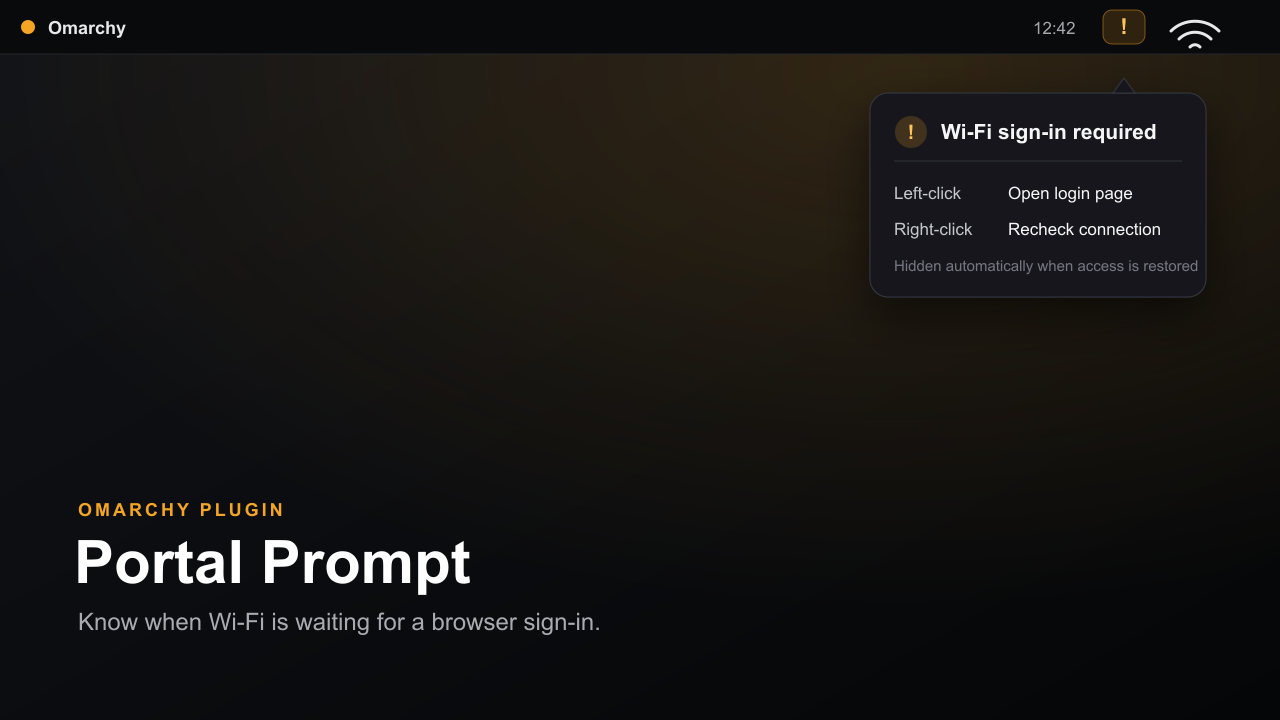
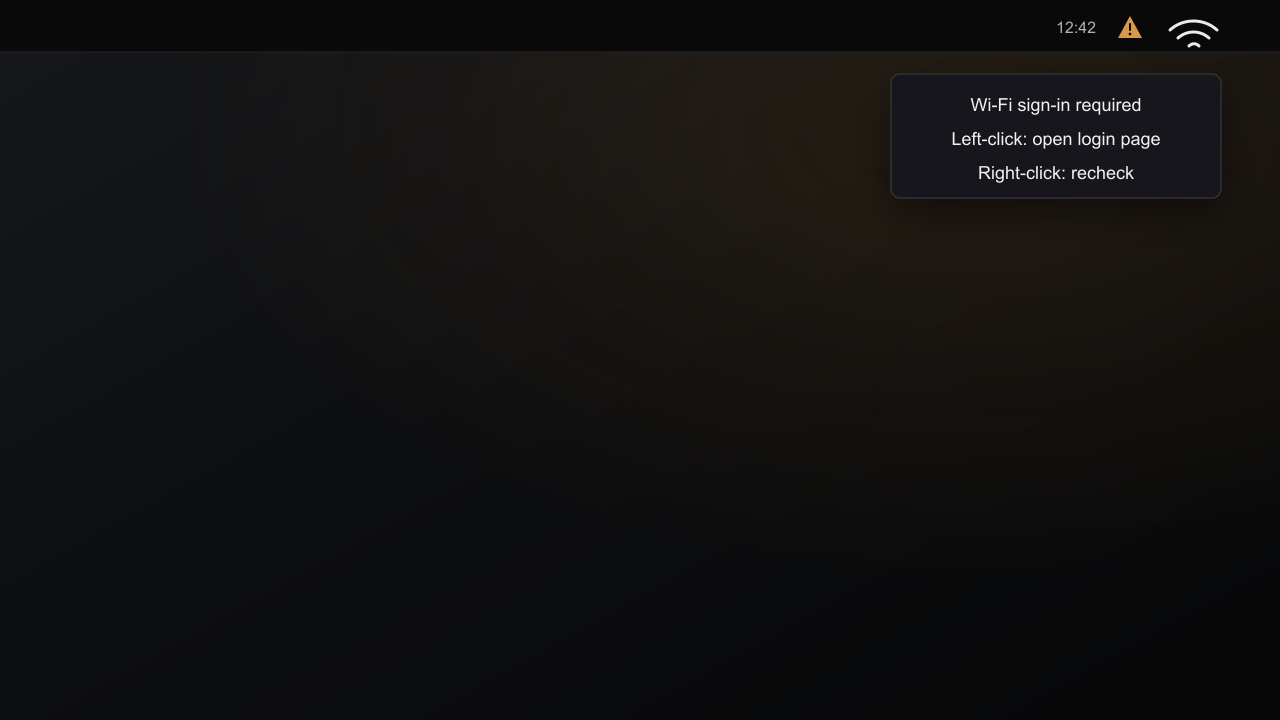
Polish preview and harden runtime

diff --git a/BarWidget.qml b/BarWidget.qml
@@ -1,5 +1,4 @@
 import QtQuick
-import Quickshell
 import Quickshell.Io
 import qs.Commons
 import qs.Ui
@@ -9,16 +8,11 @@ BarWidget {
   moduleName: "io.github.blackscaletech.portal-prompt"
 
   property string connectivity: "unknown"
-  property bool initialCheckPending: true
-
-  readonly property bool needsAttention:
-    connectivity === "portal" || connectivity === "limited"
+  readonly property bool needsAttention: connectivity === "portal" || connectivity === "limited"
 
   readonly property string loginUrl: {
     var candidate = String(setting("loginUrl", "http://example.com/")).trim()
-    return candidate.indexOf("http://") === 0
-      ? candidate
-      : "http://example.com/"
+    return /^http:\/\/\S{1,2048}$/i.test(candidate) ? candidate : "http://example.com/"
   }
 
   readonly property string statusText: connectivity === "portal"
@@ -27,8 +21,7 @@ BarWidget {
 
   function applyStatus(output) {
     var value = String(output || "").trim().toLowerCase()
-    var known = ["none", "portal", "limited", "full", "unknown"]
-    connectivity = known.indexOf(value) >= 0 ? value : "unknown"
+    connectivity = /^(none|portal|limited|full|unknown)$/.test(value) ? value : "unknown"
   }
 
   function refresh(forceCheck) {
@@ -40,15 +33,12 @@ BarWidget {
     connectivityProbe.running = true
   }
 
-  function openLoginPage() {
-    if (openPage.running) return
-    openPage.command = ["xdg-open", loginUrl]
-    openPage.running = true
-  }
+  function openLoginPage() { Util.execArgv(["xdg-open", loginUrl]) }
 
   visible: needsAttention
   implicitWidth: button.implicitWidth
   implicitHeight: button.implicitHeight
+  Component.onCompleted: refresh(true)
 
   Process {
     id: connectivityProbe
@@ -64,26 +54,11 @@ BarWidget {
     }
   }
 
-  Process {
-    id: openPage
-  }
-
   Timer {
     interval: 30000
     running: true
     repeat: true
-    triggeredOnStart: true
-    onTriggered: {
-      root.refresh(root.initialCheckPending)
-      root.initialCheckPending = false
-    }
-  }
-
-  IpcHandler {
-    target: "io.github.blackscaletech.portal-prompt"
-
-    function open(): void { root.openLoginPage() }
-    function refresh(): void { root.refresh(true) }
+    onTriggered: root.refresh(false)
   }
 
   BarIconButton {
@@ -93,6 +68,7 @@ BarWidget {
     text: "\uf071"
     slotSize: Style.bar.statusSlot
     fontSize: Style.font.caption
+    active: true
     tooltipText: root.statusText + "\nLeft-click: open login page\nRight-click: recheck"
 
     onPressed: function(buttonCode) {

diff --git a/README.md b/README.md
@@ -1,40 +1,21 @@
 # Portal Prompt
 
-Portal Prompt is a tiny [Omarchy](https://omarchy.org/) Quattro bar widget for the annoying state where Wi-Fi is connected but the internet is blocked behind a hotel, airport, cafe, or conference login page.
+An [Omarchy](https://omarchy.org/) Quattro bar widget that shows when NetworkManager reports a captive portal or limited connectivity, then opens a browser sign-in page.
 
 ![Portal Prompt showing a captive-portal warning in the Omarchy bar](preview.png)
 
-It stays hidden during normal connectivity. When NetworkManager reports `portal` or `limited`, a warning icon appears:
+Portal Prompt stays hidden while connectivity is normal. When NetworkManager reports `portal` or `limited`:
 
-- Left-click opens a plain-HTTP page so the network can redirect the browser to its sign-in page.
-- Right-click asks NetworkManager to check connectivity again.
-- The status is also refreshed locally every 30 seconds.
-
-Portal Prompt does not bypass a captive portal or handle its credentials. It only detects the state and helps open the portal in your browser.
+- **Left-click** opens the sign-in page.
+- **Right-click** rechecks connectivity.
 
 ## Install
-
-From GitHub after the repository is published:
 
 ```bash
 omarchy plugin add https://github.com/blackscaletech/portal-prompt.git --enable
 ```
 
-For local development, clone or copy this repository to:
-
-```text
-~/.config/omarchy/plugins/io.github.blackscaletech.portal-prompt
-```
-
-Then validate, discover, and enable it:
-
-```bash
-omarchy plugin validate ~/.config/omarchy/plugins/io.github.blackscaletech.portal-prompt
-omarchy-shell shell rescanPlugins
-omarchy plugin enable io.github.blackscaletech.portal-prompt
-```
-
-The widget defaults to the right side of the bar. Its `loginUrl` setting defaults to `http://example.com/`; a plain-HTTP URL is intentional because captive portals cannot transparently redirect a valid HTTPS connection. Non-HTTP values are ignored and fall back to the default.
+The widget is added to the right side of the bar. Its optional `loginUrl` setting defaults to `http://example.com/`; plain HTTP allows the network to redirect the browser to its portal.
 
 ## Remove
 
@@ -44,22 +25,12 @@ omarchy plugin remove io.github.blackscaletech.portal-prompt
 
 ## Requirements
 
-- Omarchy Quattro
-- NetworkManager's `nmcli`
-- `xdg-open` from `xdg-utils`
-
-These are standard Omarchy components. There are no downloaded or bundled dependencies.
+- Omarchy Quattro with NetworkManager
+- `nmcli` and `xdg-open`, both included by Omarchy
 
 ## Security and privacy
 
-The complete runtime is [`BarWidget.qml`](BarWidget.qml). It:
-
-- runs only `nmcli` to read or recheck NetworkManager connectivity;
-- passes the configured login URL directly to `xdg-open` as one argument, without a shell;
-- accepts only a URL beginning with `http://`, falling back to `http://example.com/` otherwise;
-- stays within the current user session and never reads credentials, writes files, stores history, or sends telemetry.
-
-Like every Omarchy shell plugin, it runs with the user's permissions, so review the source before enabling it.
+Portal Prompt runs `nmcli` for connectivity status and opens one validated HTTP URL with `xdg-open`. It requests no privileges and reads no credentials. It stores no data and includes no telemetry or downloaded dependencies.
 
 ## License
 
